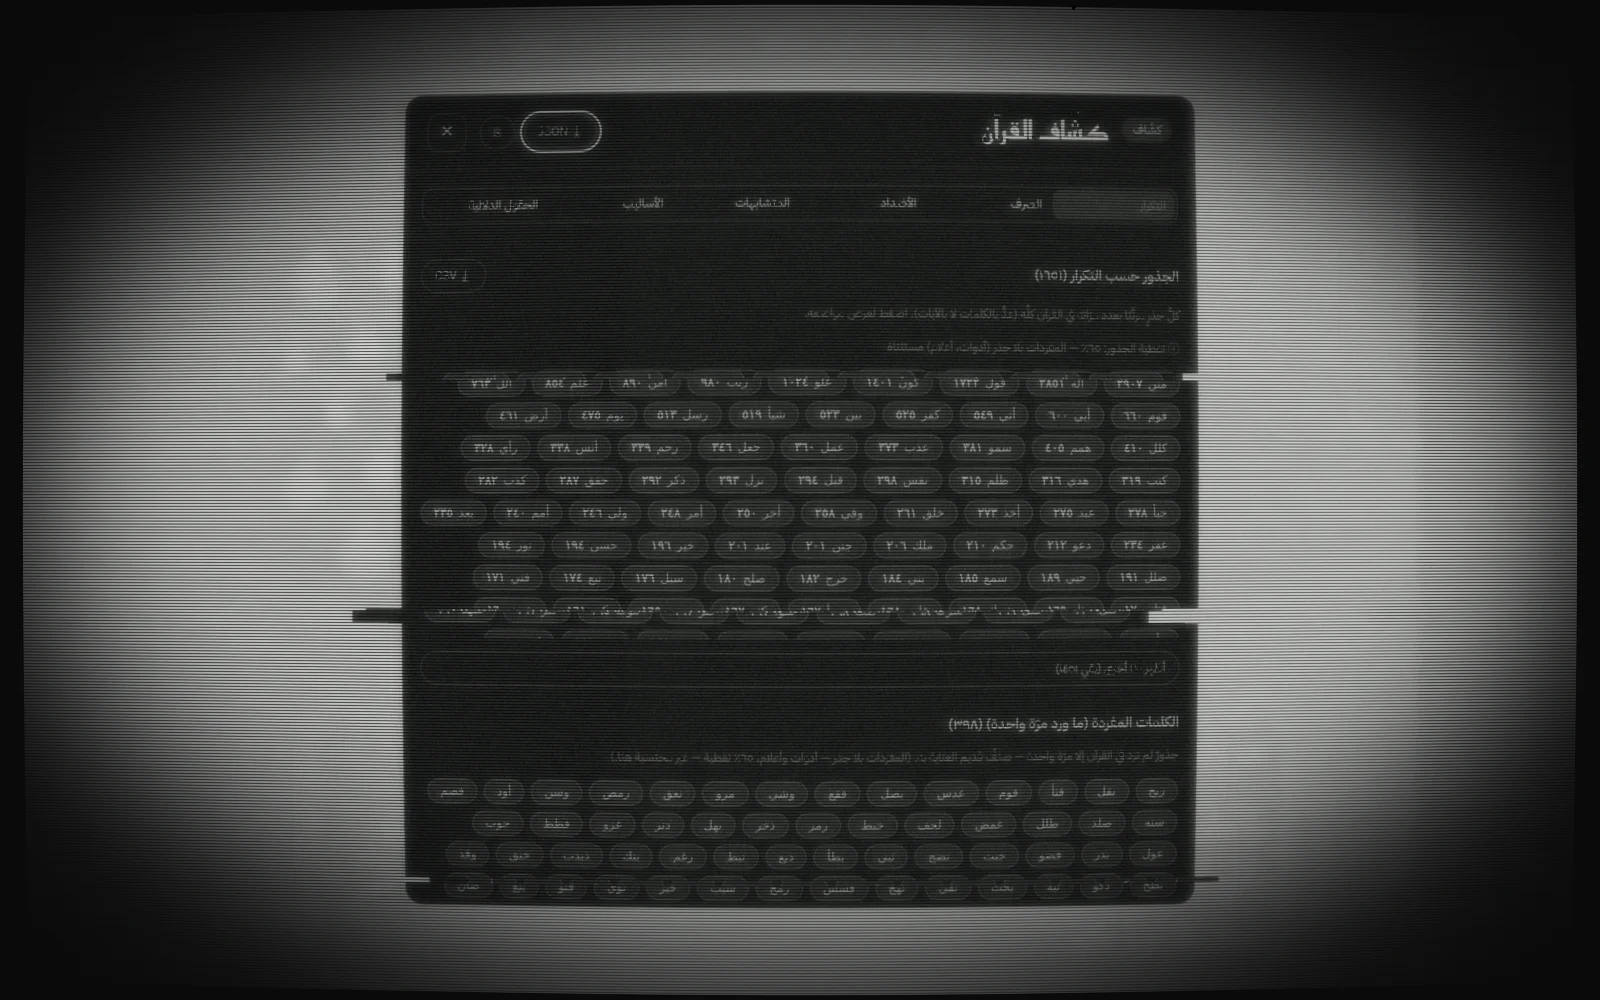
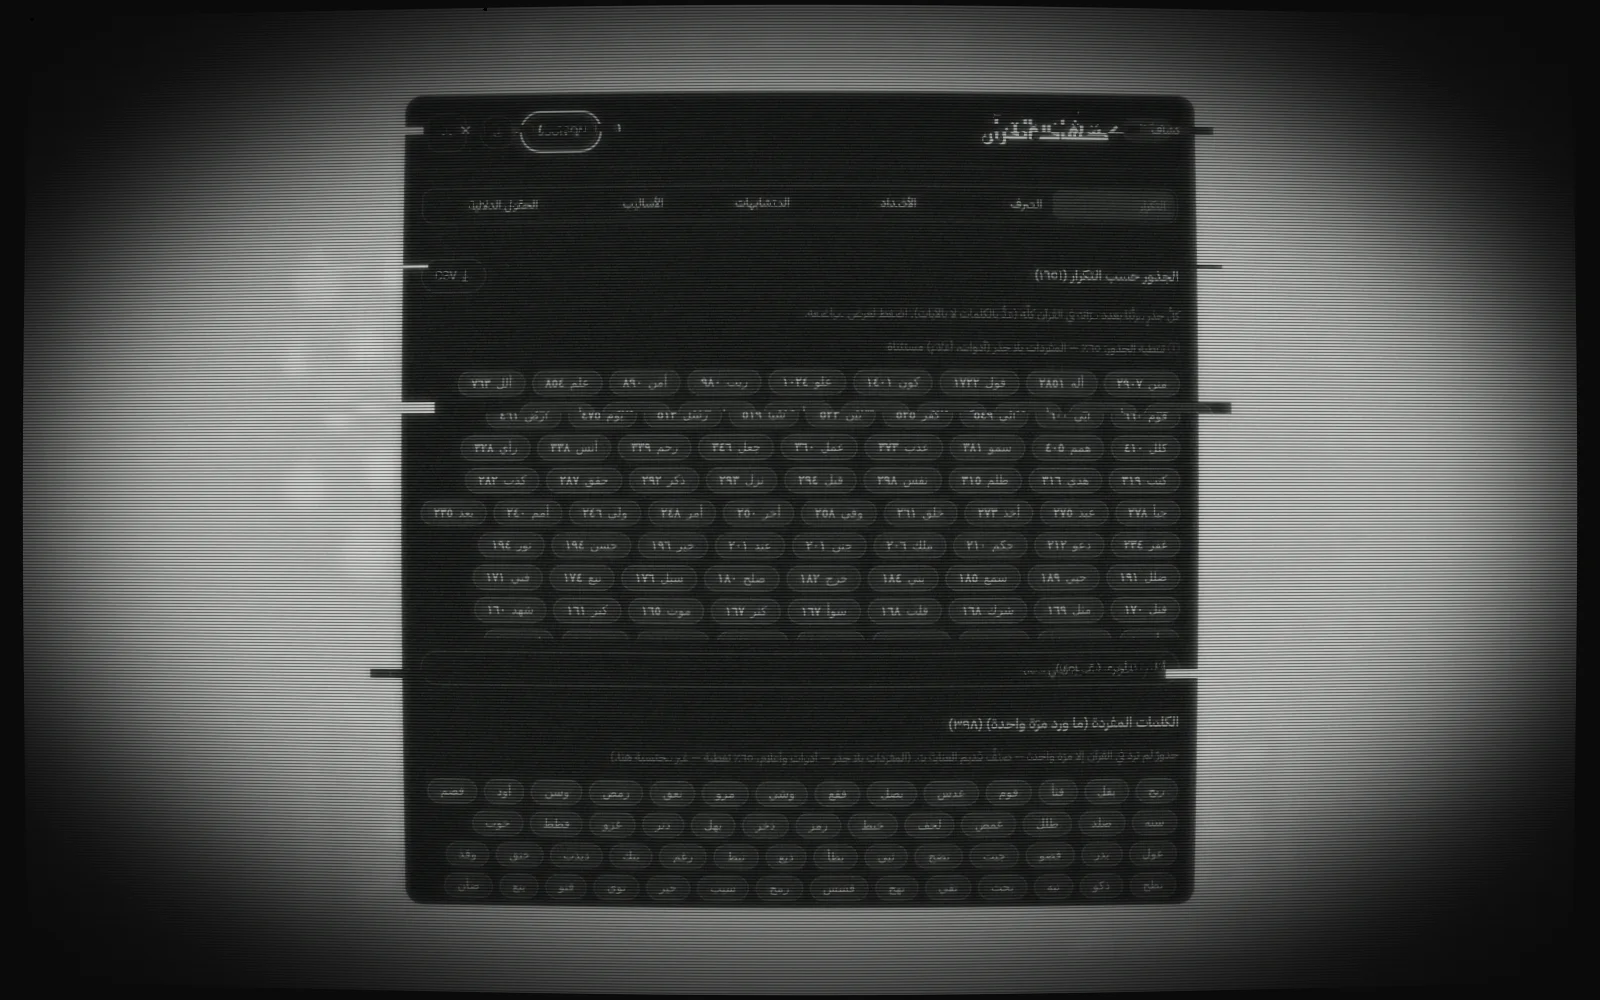
the 52 cells on one line at 1440 (the weeks column at 47%), and a constant row pitch for the repositories

diff --git a/site/style.css b/site/style.css
@@ -80,16 +80,17 @@ a:hover { color: var(--color-accent); }
 .ls th { text-align: left; font-weight: 400; }
 .ls thead th { padding: 0 var(--space-lg) var(--space-sm) 0; font-size: var(--text-sm); color: var(--color-muted); border-bottom: var(--rule-hair) solid var(--color-rule-2); white-space: nowrap; }
 .ls tbody th, .ls td { padding: var(--space-lg) var(--space-lg) var(--space-lg) 0; border-bottom: var(--rule-hair) solid var(--color-rule); vertical-align: baseline; }
-.ls tbody th { width: 38%; }
+.ls tbody th { width: 33%; }
+.ls tbody tr { height: 128px; }
 .ls tbody th a { display: block; font-size: var(--text-title); font-weight: var(--display-weight); font-stretch: var(--stretch-display); color: var(--color-ink); }
 .ls tbody th a:hover { color: var(--color-ink-2); }
 .ls__desc { display: block; margin-top: var(--space-2xs); color: var(--color-ink-2); }
-.ls__year { width: 40%; }
+.ls__year { width: 47%; }
 .weeks { display: block; font-weight: 500; white-space: nowrap; }
 .weeks i { font-style: normal; }
 .weeks .w0 { color: var(--color-rule); } .weeks .w1 { color: var(--color-muted); } .weeks .w2 { color: var(--color-ink-2); } .weeks .w3 { color: var(--color-ink); }
 .ls__sum { display: block; margin-top: var(--space-2xs); font-size: var(--text-sm); color: var(--color-muted); }
-.ls td.num { width: 8%; text-align: right; color: var(--color-ink); }
+.ls td.num { width: 7%; text-align: right; color: var(--color-ink); }
 .ls th.num { text-align: right; }
 .ls__lang { width: 14%; padding-right: 0; color: var(--color-muted); }
 
